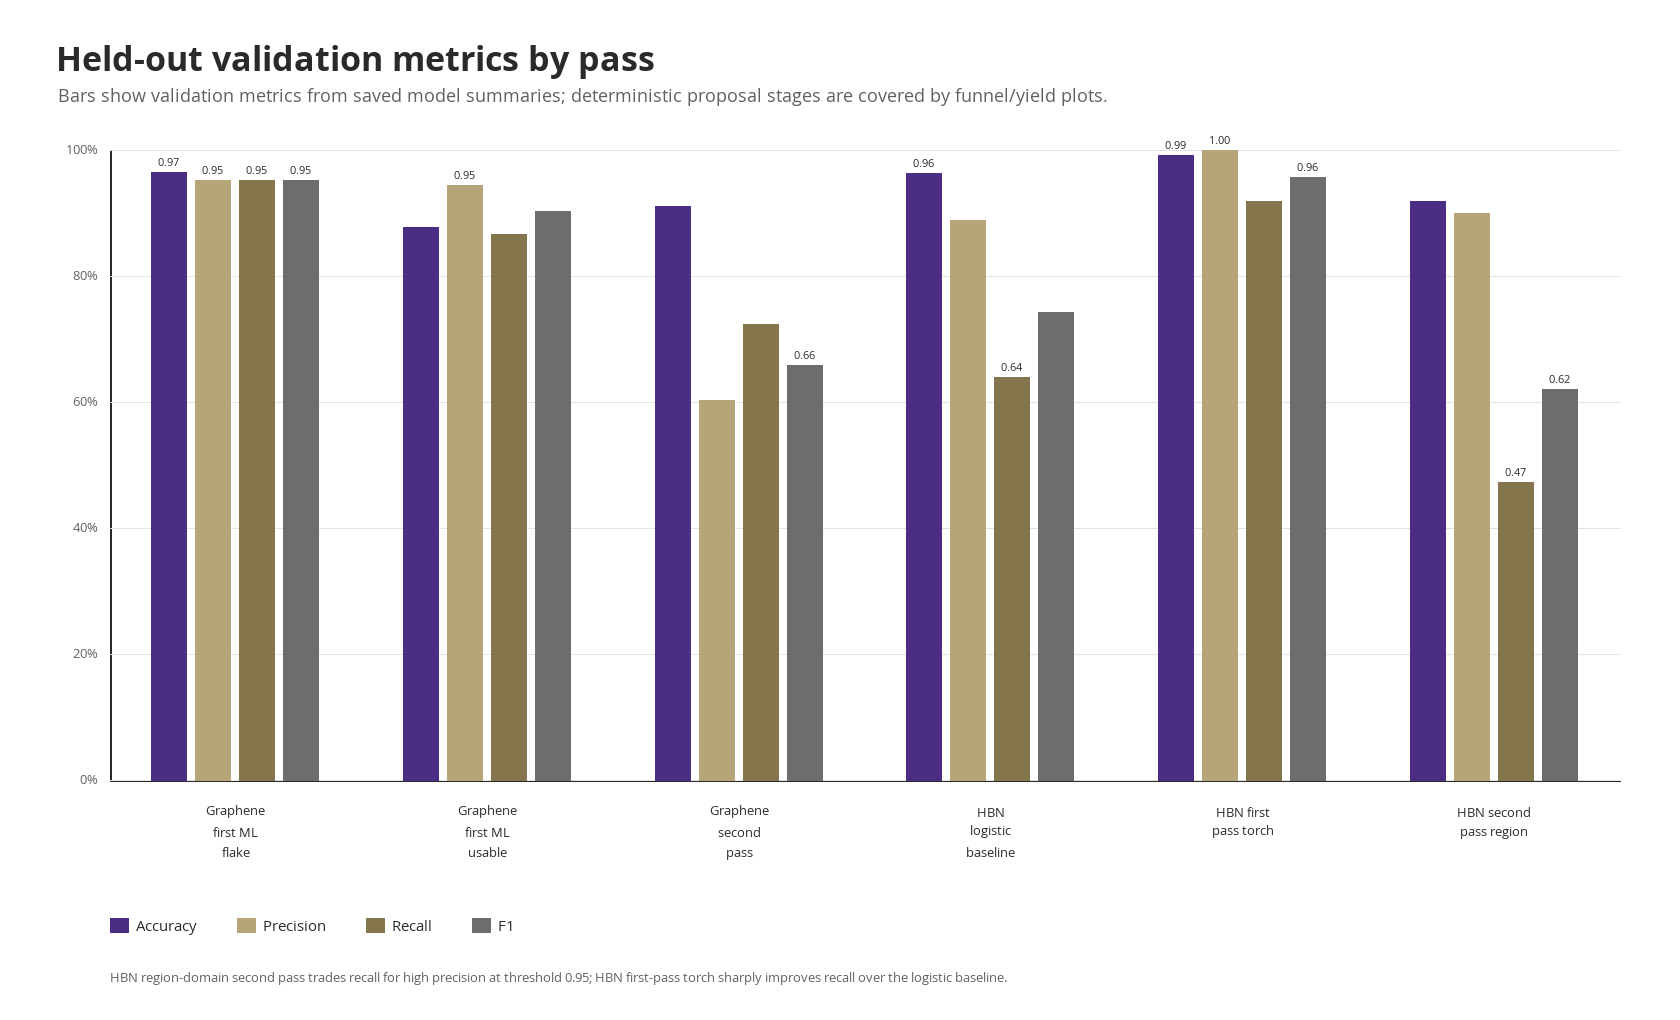
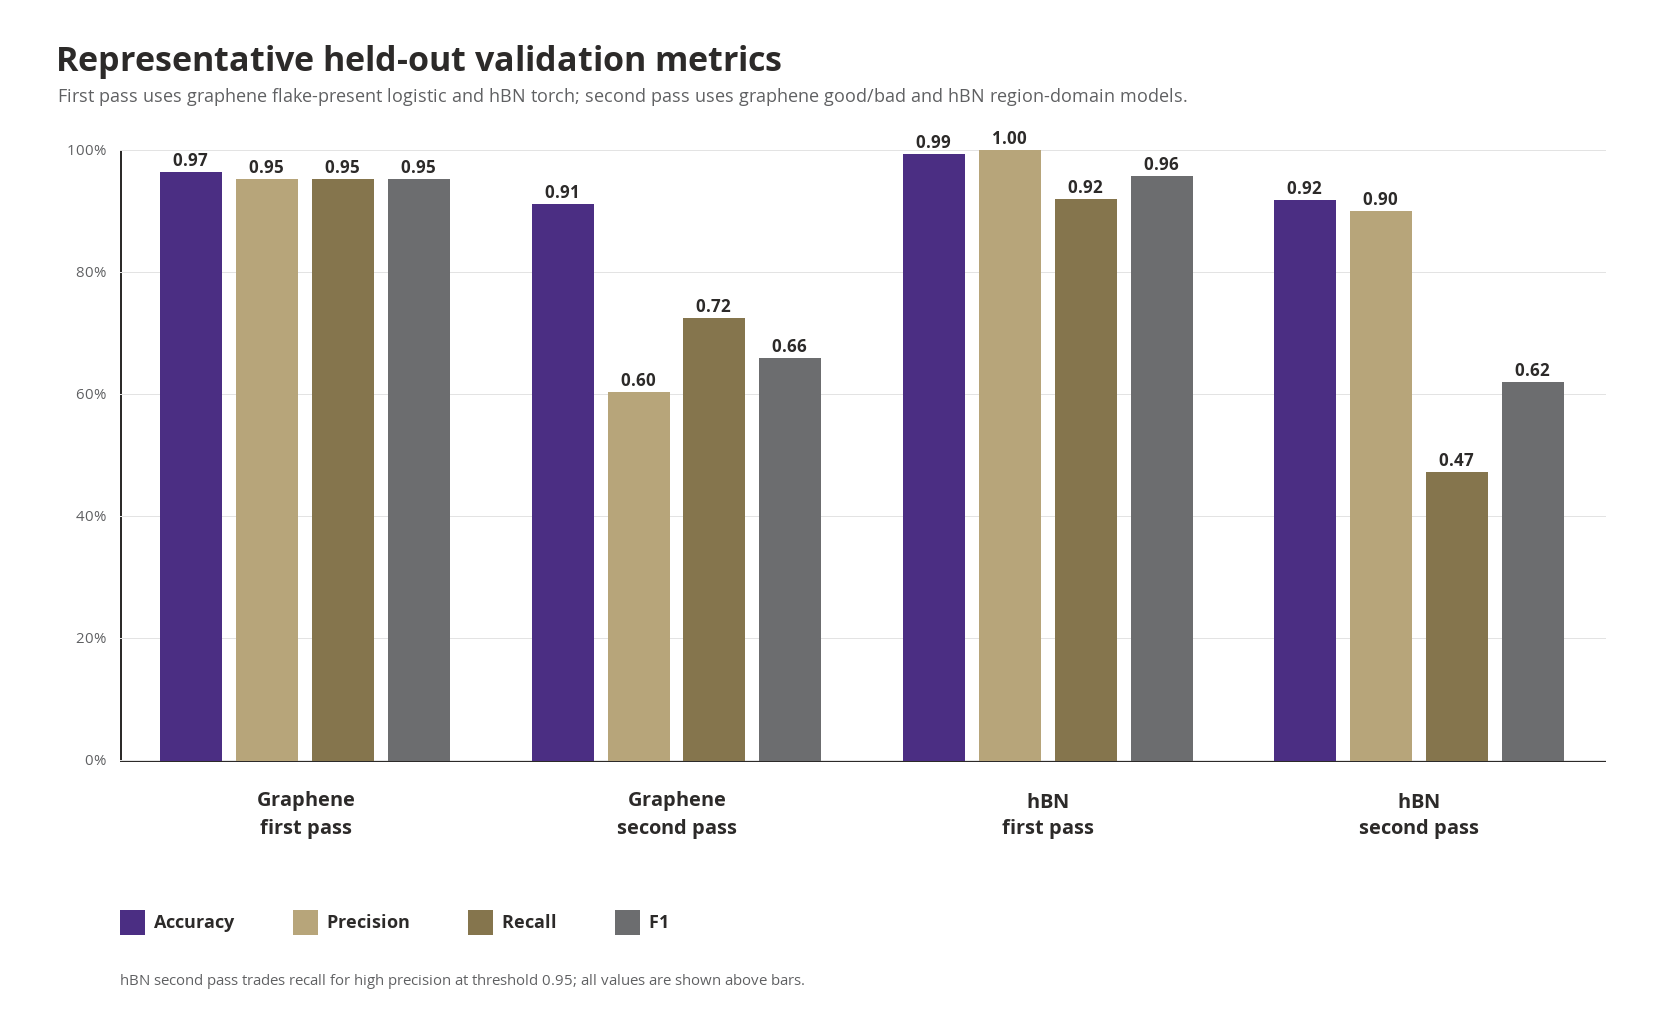
Simplify validation metrics figure

diff --git a/scripts/build_pass_performance_report_assets.py b/scripts/build_pass_performance_report_assets.py
@@ -56,10 +56,14 @@ FONT = {
     "title": font(34, True),
     "subtitle": font(18),
     "axis": font(15),
+    "axis_big": font(18, True),
     "small": font(13),
     "tiny": font(11),
     "label": font(17, True),
+    "label_big": font(20, True),
     "value": font(15, True),
+    "value_big": font(17, True),
+    "legend": font(18, True),
 }
 
 
@@ -129,12 +133,21 @@ def draw_legend(
     x: int,
     y: int,
     gap: int = 22,
+    fnt: ImageFont.ImageFont | None = None,
+    swatch: int = 18,
 ) -> None:
+    use_default_style = fnt is None and swatch == 18
+    fnt = fnt or FONT["axis"]
     cx = x
     for label, color in items:
-        draw.rectangle((cx, y + 4, cx + 18, y + 18), fill=color, outline=color)
-        draw.text((cx + 26, y), label, font=FONT["axis"], fill=INK)
-        cx += text_size(draw, label, FONT["axis"])[0] + gap + 44
+        if use_default_style:
+            draw.rectangle((cx, y + 4, cx + 18, y + 18), fill=color, outline=color)
+            draw.text((cx + 26, y), label, font=fnt, fill=INK)
+            cx += text_size(draw, label, fnt)[0] + gap + 44
+        else:
+            draw.rectangle((cx, y + 2, cx + swatch, y + 2 + swatch), fill=color, outline=color)
+            draw.text((cx + swatch + 10, y), label, font=fnt, fill=INK)
+            cx += text_size(draw, label, fnt)[0] + gap + swatch + 34
 
 
 def save_canvas(img: Image.Image, name: str) -> None:
@@ -145,56 +158,53 @@ def save_canvas(img: Image.Image, name: str) -> None:
 
 def grouped_metric_chart() -> None:
     rows = [
-        ("Graphene\nfirst ML\nflake", [0.965517, 0.952941, 0.952941, 0.952941]),
-        ("Graphene\nfirst ML\nusable", [0.877778, 0.945455, 0.866667, 0.904348]),
-        ("Graphene\nsecond\npass", [0.912281, 0.604167, 0.725000, 0.659091]),
-        ("HBN\nlogistic\nbaseline", [0.964744, 0.888889, 0.640000, 0.744186]),
-        ("HBN first\npass torch", [0.993590, 1.000000, 0.920000, 0.958333]),
-        ("HBN second\npass region", [0.919118, 0.900000, 0.473684, 0.620690]),
+        ("Graphene\nfirst pass", [0.965517, 0.952941, 0.952941, 0.952941]),
+        ("Graphene\nsecond pass", [0.912281, 0.604167, 0.725000, 0.659091]),
+        ("hBN\nfirst pass", [0.993590, 1.000000, 0.920000, 0.958333]),
+        ("hBN\nsecond pass", [0.919118, 0.900000, 0.473684, 0.620690]),
     ]
     metrics = ["Accuracy", "Precision", "Recall", "F1"]
 
     width, height = 1680, 1020
     img = Image.new("RGB", (width, height), BG)
     draw = ImageDraw.Draw(img)
-    draw.text((56, 34), "Held-out validation metrics by pass", font=FONT["title"], fill=INK)
+    draw.text((56, 34), "Representative held-out validation metrics", font=FONT["title"], fill=INK)
     draw.text(
         (58, 82),
-        "Bars show validation metrics from saved model summaries; deterministic proposal stages are covered by funnel/yield plots.",
+        "First pass uses graphene flake-present logistic and hBN torch; second pass uses graphene good/bad and hBN region-domain models.",
         font=FONT["subtitle"],
         fill=MUTED,
     )
 
-    left, top, right, bottom = 110, 150, 1620, 780
+    left, top, right, bottom = 120, 150, 1605, 760
     draw.line((left, bottom, right, bottom), fill=INK, width=2)
     draw.line((left, top, left, bottom), fill=INK, width=2)
     for i in range(6):
         value = i / 5
         y = bottom - int(value * (bottom - top))
         draw.line((left, y, right, y), fill=GRID, width=1)
-        draw_right(draw, (left - 12, y - 10), f"{int(value * 100)}%", FONT["small"], MUTED)
+        draw_right(draw, (left - 14, y - 12), f"{int(value * 100)}%", FONT["axis"], MUTED)
 
     group_w = (right - left) / len(rows)
-    bar_w = min(40, group_w / 7)
+    bar_w = min(64, group_w / 6)
     for gi, (label, values) in enumerate(rows):
         base_x = left + group_w * gi
         center_x = base_x + group_w / 2
-        start_x = center_x - (len(metrics) * bar_w + (len(metrics) - 1) * 8) / 2
+        start_x = center_x - (len(metrics) * bar_w + (len(metrics) - 1) * 14) / 2
         for mi, value in enumerate(values):
-            x0 = int(start_x + mi * (bar_w + 8))
+            x0 = int(start_x + mi * (bar_w + 14))
             x1 = int(x0 + bar_w)
             y0 = bottom - int(value * (bottom - top))
             draw.rectangle((x0, y0, x1, bottom), fill=COLORS[mi])
-            if value >= 0.93 or (mi in (2, 3) and value <= 0.66):
-                draw_centered(draw, ((x0 + x1) / 2, y0 - 14), f"{value:.2f}", FONT["tiny"], INK)
+            draw_centered(draw, ((x0 + x1) / 2, y0 - 18), f"{value:.2f}", FONT["value_big"], INK)
         for li, line in enumerate(label.split("\n")):
-            draw_centered(draw, (center_x, bottom + 28 + li * 20), line, FONT["small"], INK)
+            draw_centered(draw, (center_x, bottom + 34 + li * 28), line, FONT["label_big"], INK)
 
-    draw_legend(draw, [(m, COLORS[i]) for i, m in enumerate(metrics)], left, height - 106)
+    draw_legend(draw, [(m, COLORS[i]) for i, m in enumerate(metrics)], left, height - 112, gap=34, fnt=FONT["legend"], swatch=24)
     draw.text(
         (left, height - 52),
-        "HBN region-domain second pass trades recall for high precision at threshold 0.95; HBN first-pass torch sharply improves recall over the logistic baseline.",
-        font=FONT["small"],
+        "hBN second pass trades recall for high precision at threshold 0.95; all values are shown above bars.",
+        font=FONT["axis"],
         fill=MUTED,
     )
     save_canvas(img, "validation_metrics_by_pass.png")
